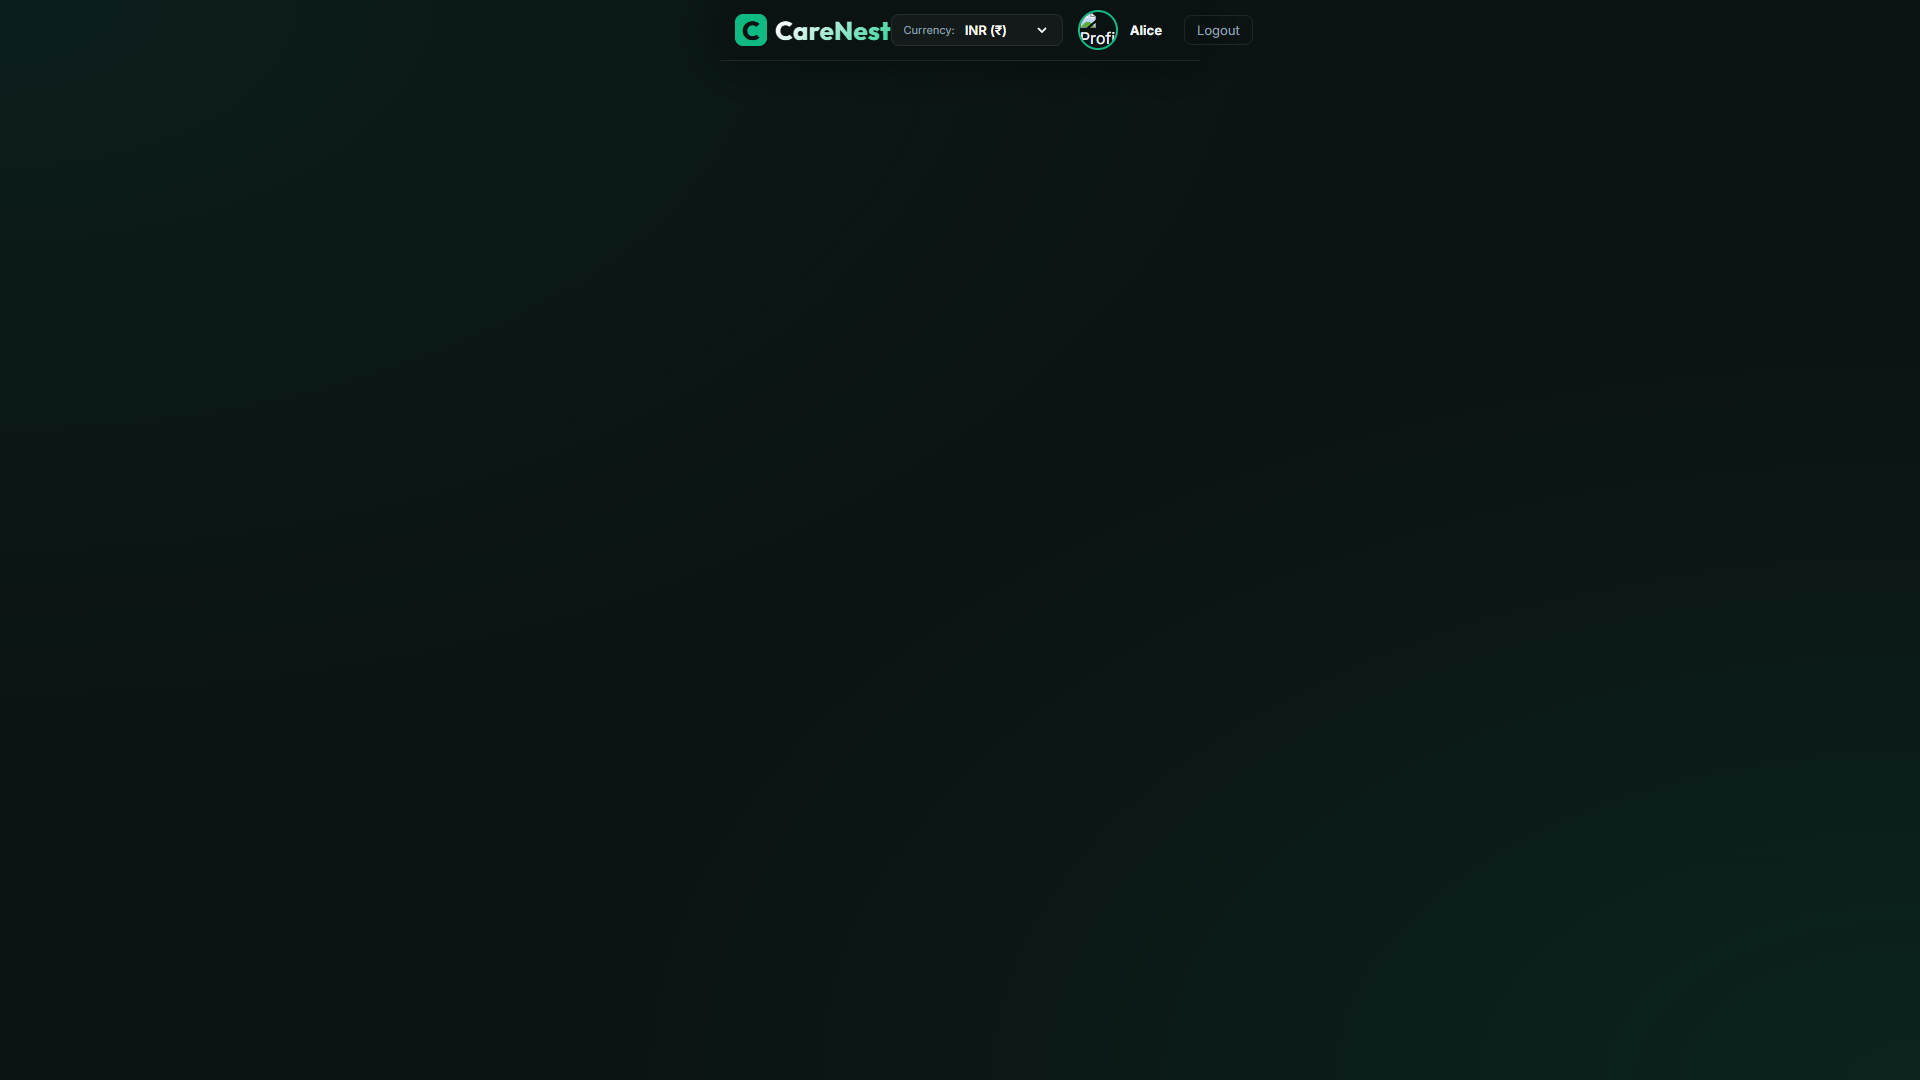
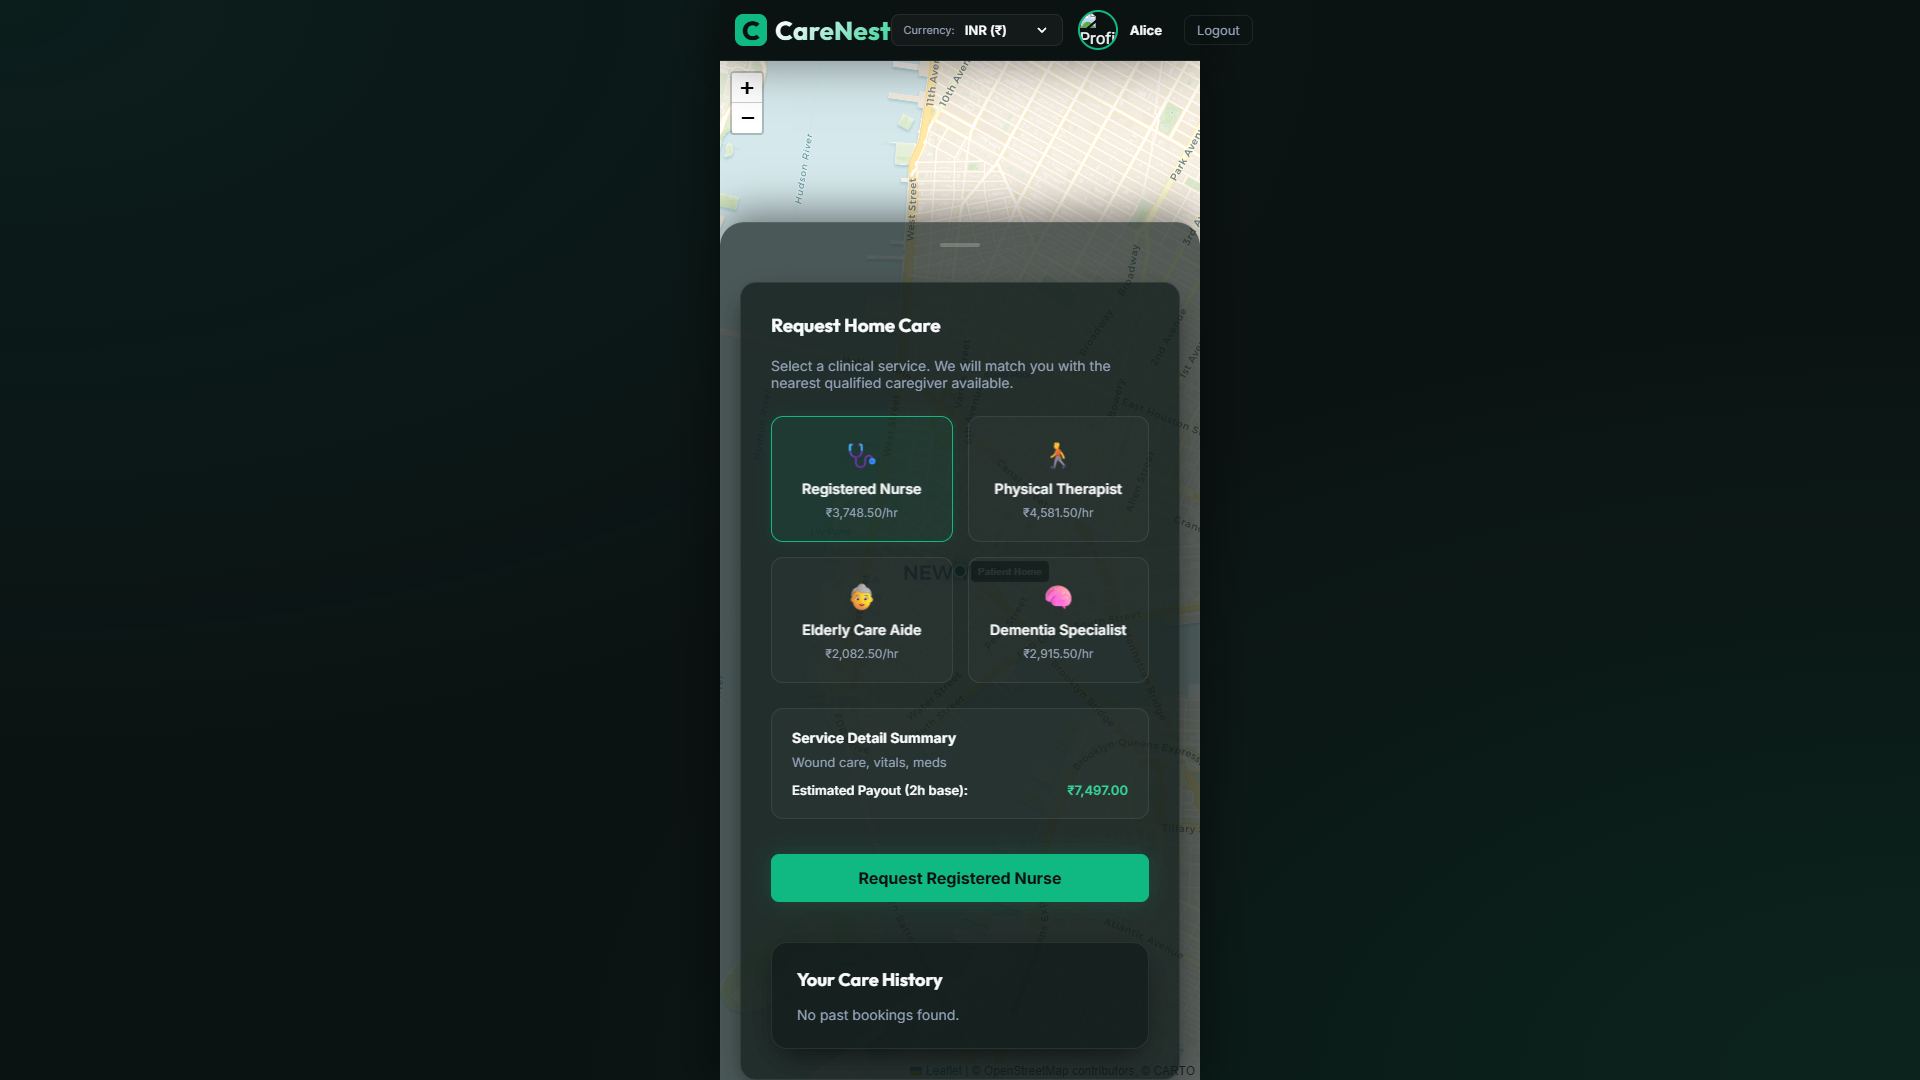
fix(ui): use absolute positioning for leaflet map to guarantee dimensions on mobile

Changed region(s): [[0.375, 0.0306, 0.625, 1.0]]

diff --git a/src/components/MapSimulator.jsx b/src/components/MapSimulator.jsx
@@ -247,8 +247,8 @@ export default function MapSimulator({
   }, [navigatingIndex, routeCoordinates, onLocationUpdate]);
 
   return (
-    <div style={{ position: 'relative', width: '100%', height: '100%', overflow: 'hidden' }}>
-      <div ref={mapContainerRef} style={{ width: '100%', height: '100%' }}></div>
+    <div style={{ position: 'absolute', top: 0, left: 0, right: 0, bottom: 0, overflow: 'hidden' }}>
+      <div ref={mapContainerRef} style={{ position: 'absolute', top: 0, left: 0, right: 0, bottom: 0 }}></div>
       
       {/* Route Navigation info HUD Overlay */}
       {activeBooking && activeBooking.status === 'EnRoute' && (